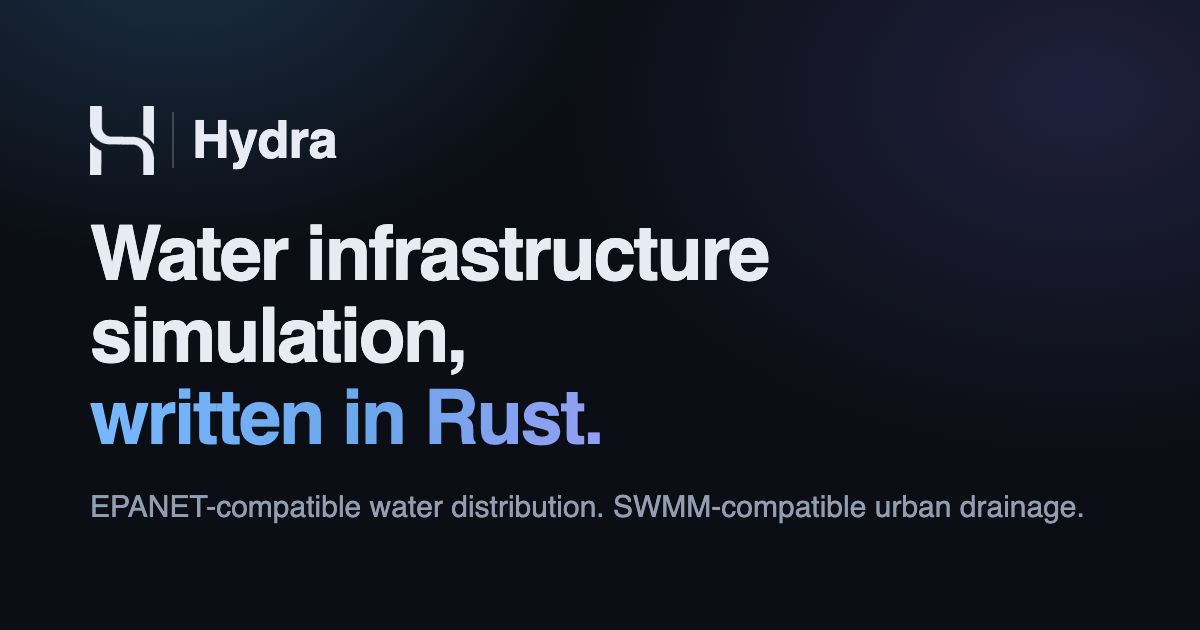
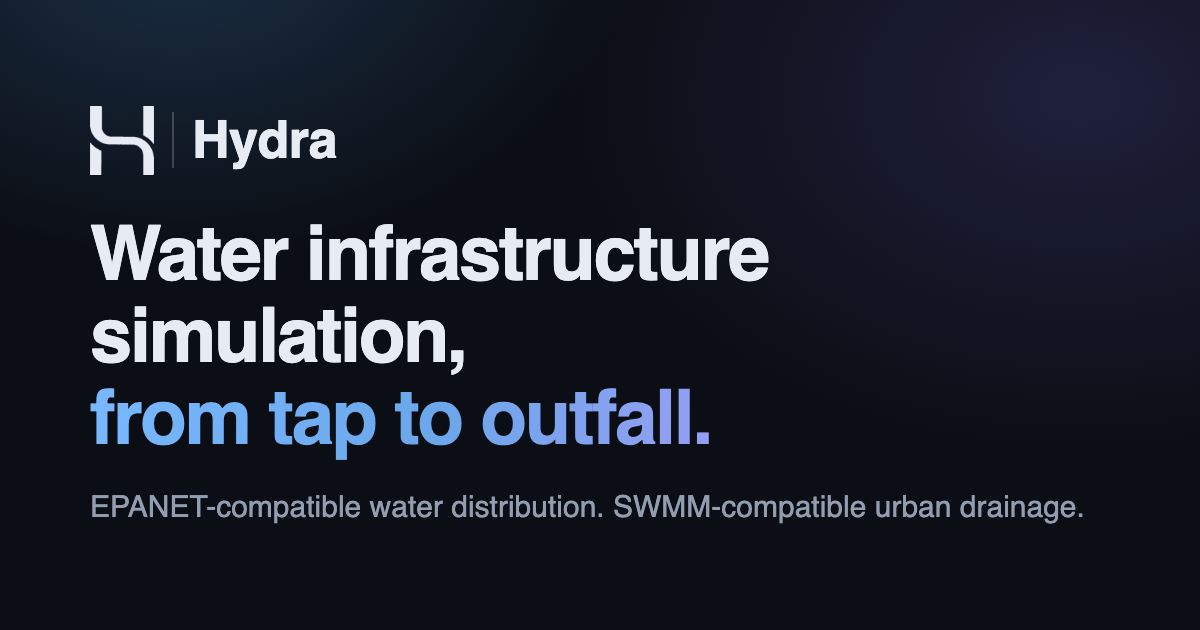
style(site): mobile polish, deterministic anchors, tap to outfall
The headline's punch line becomes the domain (from tap to outfall,
blue into purple like the engines it names) and written in Rust drops
one notch into the lede; og-card and meta descriptions follow. Anchor
scrolling becomes deterministic by removing the reveal's translate,
which also deletes the two scroll patches it had required. On phones,
the inventory grids (features, use cases, toolchain, downloads)
collapse to divided panels, the benchmark placeholders to one skeleton,
the footer to real grid tracks, and the announcement pill to a banner
with the New chip in its own column. The Use cases nav item becomes
Why simulate, and the SDK code card loses its blinking caret, which
belongs to prompts, not file names.

Changed region(s): [[0.0617, 0.6032, 0.5858, 0.7238]]

diff --git a/site/site.css b/site/site.css
@@ -164,6 +164,26 @@ a:hover {
   transform: translateX(2px);
 }
 
+/* Wrapped text does not belong in a pill: on a phone the announcement
+   becomes a small left-aligned banner, the tag leading into the text,
+   the arrow dropped since the whole banner is the link. */
+@media (max-width: 640px) {
+  .announce {
+    display: grid;
+    grid-template-columns: auto 1fr;
+    align-items: start;
+    gap: 10px;
+    text-align: left;
+    padding: 10px 14px;
+    border-radius: 12px;
+    line-height: 1.55;
+  }
+
+  .announce-arrow {
+    display: none;
+  }
+}
+
 h1 {
   margin: 0;
   font-size: clamp(36px, 6vw, 60px);
@@ -438,21 +458,22 @@ h2 {
    .in; visitors preferring less motion get everything visible at once. */
 /* Scoped under .js (set by the page script) so no-JS readers see every
    section instead of permanent opacity 0. */
+/* Fade only, no translate: anchor scrolling measures the target's
+   visual position, and a section mid-drift measures 16px low, landing
+   headings under the sticky nav on a timing-dependent coin flip. An
+   entrance may move nothing that a scroll can target. */
 .js .reveal {
   opacity: 0;
-  transform: translateY(16px);
-  transition: opacity 500ms ease, transform 500ms ease;
+  transition: opacity 500ms ease;
 }
 
 .js .reveal.in {
   opacity: 1;
-  transform: none;
 }
 
 @media (prefers-reduced-motion: reduce) {
   .js .reveal {
     opacity: 1;
-    transform: none;
     transition: none;
   }
 }
@@ -728,6 +749,11 @@ h2 {
   max-width: none;
 }
 
+/* The bar shows a file name, not a prompt: no blinking caret here. */
+.code-card .cmd::after {
+  content: none;
+}
+
 .term.code .kw {
   display: inline;
   min-height: 0;
@@ -865,6 +891,61 @@ h2 {
   color: var(--dim);
 }
 
+/* On a phone, a column of separate card boxes reads as repetition. The
+   inventory grids (features, use cases, toolchain, downloads) become one
+   panel of divided rows; the engine cards and the screenshot figures
+   keep their card weight, and the benchmark placeholders shrink to one
+   skeleton, because three identical empty boxes say nothing once. */
+@media (max-width: 640px) {
+  .feature-grid,
+  #toolchain .cards.four,
+  #download .cards {
+    display: block;
+    border: 1px solid var(--border);
+    border-radius: 12px;
+    background: var(--bg-panel);
+  }
+
+  .feature,
+  #toolchain .cards.four .card,
+  #download .cards .card {
+    border: 0;
+    border-radius: 0;
+    background: transparent;
+    padding: 14px 16px;
+  }
+
+  .feature + .feature,
+  #toolchain .cards.four .card + .card,
+  #download .cards .card + .card {
+    border-top: 1px solid var(--border);
+  }
+
+  #toolchain .cards.four .card:hover,
+  #download .cards .card:hover {
+    transform: none;
+    box-shadow: none;
+  }
+
+  #toolchain .card .icon,
+  #download .card .icon {
+    display: inline-block;
+    width: 18px;
+    height: 18px;
+    margin: 0 8px 0 0;
+    vertical-align: -3px;
+  }
+
+  #toolchain .card h3,
+  #download .card h3 {
+    display: inline-block;
+  }
+
+  .perf-card.tbd:nth-of-type(n + 2) {
+    display: none;
+  }
+}
+
 /* ── Download ────────────────────────────────────────────────────────── */
 
 .card.dl .icon {
@@ -960,6 +1041,7 @@ h2 {
   text-decoration: none;
 }
 
+
 /* ── Footer ──────────────────────────────────────────────────────────── */
 
 .foot-inner .hydra-wordmark {
@@ -998,5 +1080,27 @@ footer {
 
   section {
     margin-top: 72px;
+  }
+}
+
+/* Narrow layouts: content-sized flex wrapping reads as ragged columns,
+   so the footer switches to real grid tracks, brand spanning the row. */
+@media (max-width: 900px) {
+  .foot-inner {
+    display: grid;
+    grid-template-columns: 1fr 1fr;
+    gap: 32px 24px;
+  }
+
+  .foot-brand {
+    grid-column: 1 / -1;
+    max-width: none;
+  }
+}
+
+@media (max-width: 560px) {
+  .foot-inner {
+    grid-template-columns: 1fr;
+    gap: 28px;
   }
 }

diff --git a/site/index.html b/site/index.html
@@ -6,12 +6,12 @@
     <title>Hydra: water infrastructure simulation</title>
     <meta
       name="description"
-      content="Water infrastructure simulation, written in Rust. A suite of domain engines behind one toolchain: desktop app, CLI, and Rust SDK."
+      content="Water infrastructure simulation, from tap to outfall. A suite of domain engines behind one toolchain, written in Rust: desktop app, CLI, and Rust SDK."
     />
     <meta property="og:title" content="Hydra" />
     <meta
       property="og:description"
-      content="Water infrastructure simulation, written in Rust. EPANET-compatible water distribution and SWMM-compatible urban drainage, from one toolchain."
+      content="Water infrastructure simulation, from tap to outfall. EPANET-compatible water distribution and SWMM-compatible urban drainage, from one toolchain."
     />
     <meta property="og:type" content="website" />
     <meta property="og:image" content="https://neeraip.github.io/hydra/og-card.png" />
@@ -43,7 +43,7 @@
           <svg class="close-i" viewBox="0 0 24 24" aria-hidden="true"><path d="M6 6l12 12M18 6L6 18"/></svg>
         </label>
         <div class="hydra-nav-links">
-          <a href="#why">Use cases</a>
+          <a href="#why">Why simulate</a>
           <a href="#engines">Engines</a>
           <a href="#toolchain">Toolchain</a>
           <a href="#features">Features</a>
@@ -99,10 +99,11 @@
         </a>
         <h1>
           Water infrastructure simulation,<br />
-          <span class="grad">written in Rust.</span>
+          <span class="grad">from tap to outfall.</span>
         </h1>
         <p class="lede">
-          A suite of domain engines behind one toolchain. Import a model, run
+          A suite of domain engines behind one toolchain, written in Rust.
+          Import a model, run
           it, and read the same report everywhere: in the desktop app, from
           the command line, through the Rust SDK, or right here in your
           browser.
@@ -144,7 +145,7 @@
       </section>
 
       <section id="why" class="reveal" aria-labelledby="why-h">
-        <p class="eyebrow">Use cases</p>
+        <p class="eyebrow">Why simulate</p>
         <h2 id="why-h">What is this for?</h2>
         <p class="section-lede">
           Every city runs on buried networks: one delivers drinking water
@@ -698,6 +699,7 @@
       // Reveal animations exist only once JS is known to be running, so
       // no-JS readers see every section.
       document.documentElement.classList.add("js");
+
 
       // Close the mobile drawer when a navigation choice is made; without
       // this the checkbox stays checked and the panel covers the section

diff --git a/crates/demo/www/index.html b/crates/demo/www/index.html
@@ -23,7 +23,7 @@
           <svg class="close-i" viewBox="0 0 24 24" aria-hidden="true"><path d="M6 6l12 12M18 6L6 18"/></svg>
         </label>
         <div class="hydra-nav-links">
-          <a href="https://neeraip.github.io/hydra/#why">Use cases</a>
+          <a href="https://neeraip.github.io/hydra/#why">Why simulate</a>
           <a href="https://neeraip.github.io/hydra/#engines">Engines</a>
           <a href="https://neeraip.github.io/hydra/#toolchain">Toolchain</a>
           <a href="https://neeraip.github.io/hydra/#features">Features</a>
@@ -56,7 +56,7 @@
       </section>
 
       <section class="examples" aria-label="Example models">
-        <span class="dim">No model to hand? Try one of these:</span>
+        <span class="dim">No model on hand? Try one of these:</span>
         <span id="examples"></span>
       </section>
 
@@ -91,7 +91,7 @@
 
     <footer class="dim">
       <p>
-        The report below is the engine's own summary: the same bytes
+        The report above is the engine's own summary: the same bytes
         <code>hydra run model.inp</code> writes to stdout. Coloured lines
         are the diagnostics it writes to stderr, shown readably. Models are
         read, solved and reported in this tab; nothing is uploaded anywhere.
